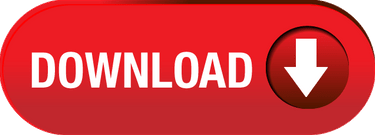
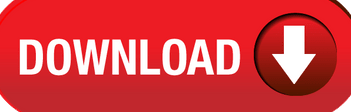
fix image ans quote
The image was cropped down in order to look a little better IMO. Also the quote is not italized and the author is a little smaller.

diff --git a/css/Styles.css b/css/Styles.css
@@ -86,11 +86,13 @@ ul, li {
 }
 #quote {
     text-align: center;
+    font-style: italic
 }
 
 #author {
     margin-top: 20px;
     text-align: center;
+    font-size: 90%
 }
 .project-description-space {
     margin-bottom:10px;
